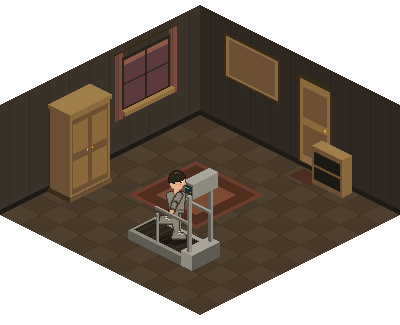
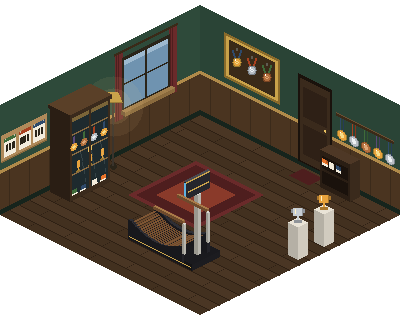
스플릿 화면 사진: '기록의 방'으로 바꿈 — 고급 러닝머신 · 진열장 · 메달 걸이, 그 위에서 캐릭터가 뛴다
- split-room.png (방 400×325, 캐릭터 없음)와 split-run.png (달리는 여덟 장면, 60×105 씩)를 새로 뽑음.
  그림은 training-core 의 design/char-draft/themes.html 에서 뽑은 것. 그림 코드는 싣지 않는다.
- 장면이 48×94 에서 60×105 로 커지고 자리가 방의 144,167 로 바뀌어 .shot .room i 의 위치·크기를 맞춤.

diff --git a/docs/style.css b/docs/style.css
@@ -114,7 +114,7 @@ nav.gnb a:hover, nav.gnb a[aria-current] { border-bottom-color: var(--ink); }
 .shot img { display: block; width: 100%; height: 100%; object-fit: cover; object-position: center top; }
 .shot { position: relative; }
 .shot .room { position: absolute; left: 4.615%; top: 11.944%; width: 90.769%; height: 40%; background: url("/img/split-room.png") 0 0 / 100% 100% no-repeat; }
-.shot .room i { position: absolute; left: 38.5%; top: 46.154%; width: 12%; height: 28.923%; background: url("/img/split-run.png") 0 0 / 800% 100% no-repeat; animation: shotRun 0.76s steps(8) infinite; }
+.shot .room i { position: absolute; left: 36%; top: 51.385%; width: 15%; height: 32.308%; background: url("/img/split-run.png") 0 0 / 800% 100% no-repeat; animation: shotRun 0.76s steps(8) infinite; }
 @keyframes shotRun { to { background-position-x: 114.2857%; } }
 .shots { display: flex; flex-wrap: wrap; gap: 40px; justify-content: center; padding: 8px 0 12px; }
 .note.center { text-align: center; }

diff --git a/src/style.css b/src/style.css
@@ -114,7 +114,7 @@ nav.gnb a:hover, nav.gnb a[aria-current] { border-bottom-color: var(--ink); }
 .shot img { display: block; width: 100%; height: 100%; object-fit: cover; object-position: center top; }
 .shot { position: relative; }
 .shot .room { position: absolute; left: 4.615%; top: 11.944%; width: 90.769%; height: 40%; background: url("/img/split-room.png") 0 0 / 100% 100% no-repeat; }
-.shot .room i { position: absolute; left: 38.5%; top: 46.154%; width: 12%; height: 28.923%; background: url("/img/split-run.png") 0 0 / 800% 100% no-repeat; animation: shotRun 0.76s steps(8) infinite; }
+.shot .room i { position: absolute; left: 36%; top: 51.385%; width: 15%; height: 32.308%; background: url("/img/split-run.png") 0 0 / 800% 100% no-repeat; animation: shotRun 0.76s steps(8) infinite; }
 @keyframes shotRun { to { background-position-x: 114.2857%; } }
 .shots { display: flex; flex-wrap: wrap; gap: 40px; justify-content: center; padding: 8px 0 12px; }
 .note.center { text-align: center; }

diff --git a/build.py b/build.py
@@ -249,7 +249,8 @@ def home_tidy(t):
 def shot(name, alt):
     """휴대전화 틀에 넣은 앱 화면 (src/img/<name>.jpg)."""
     # 스플릿의 내 방 화면은 러닝머신 위 캐릭터가 뛴다. 그림 코드를 싣지 않고 앱 화면에서 뽑은 그림 두 장을 쓴다:
-    # split-room.png (방 한 장, 400×325) 위에 split-run.png (달리는 여덟 장면, 48×94 씩)를 같은 자리에 얹는다.
+    # split-room.png (방 한 장, 400×325) 위에 split-run.png (달리는 여덟 장면, 60×105 씩)를 방의 144,167 자리에 얹는다.
+    # 그림은 training-core 의 design/char-draft/themes.html '기록의 방'에서 뽑은 것 (고급 러닝머신 · 진열장, 2026-11-24).
     # 자리는 화면 사진 안에서 방이 놓인 곳 (390×720 가운데 18,86 에서 354×288) — style.css 의 .shot .room.
     run = '<span class="room" aria-hidden="true"><i></i></span>' if name == "split-room" else ""
     return f'<span class="shot"><img src="/img/{name}.jpg" alt="{e(alt)}" loading="lazy">{run}</span>'
